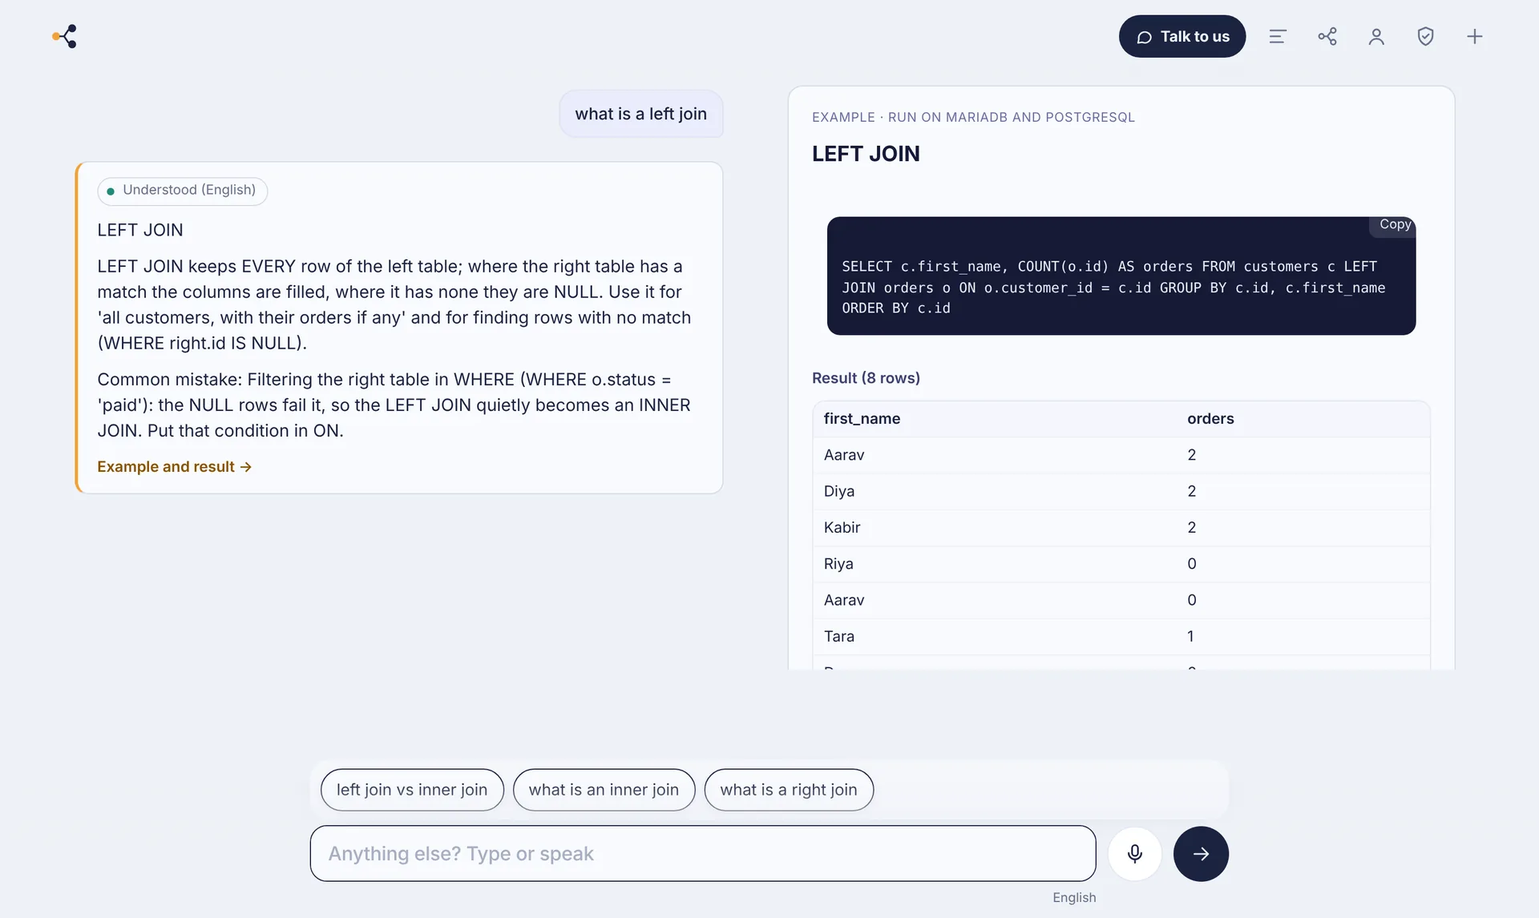
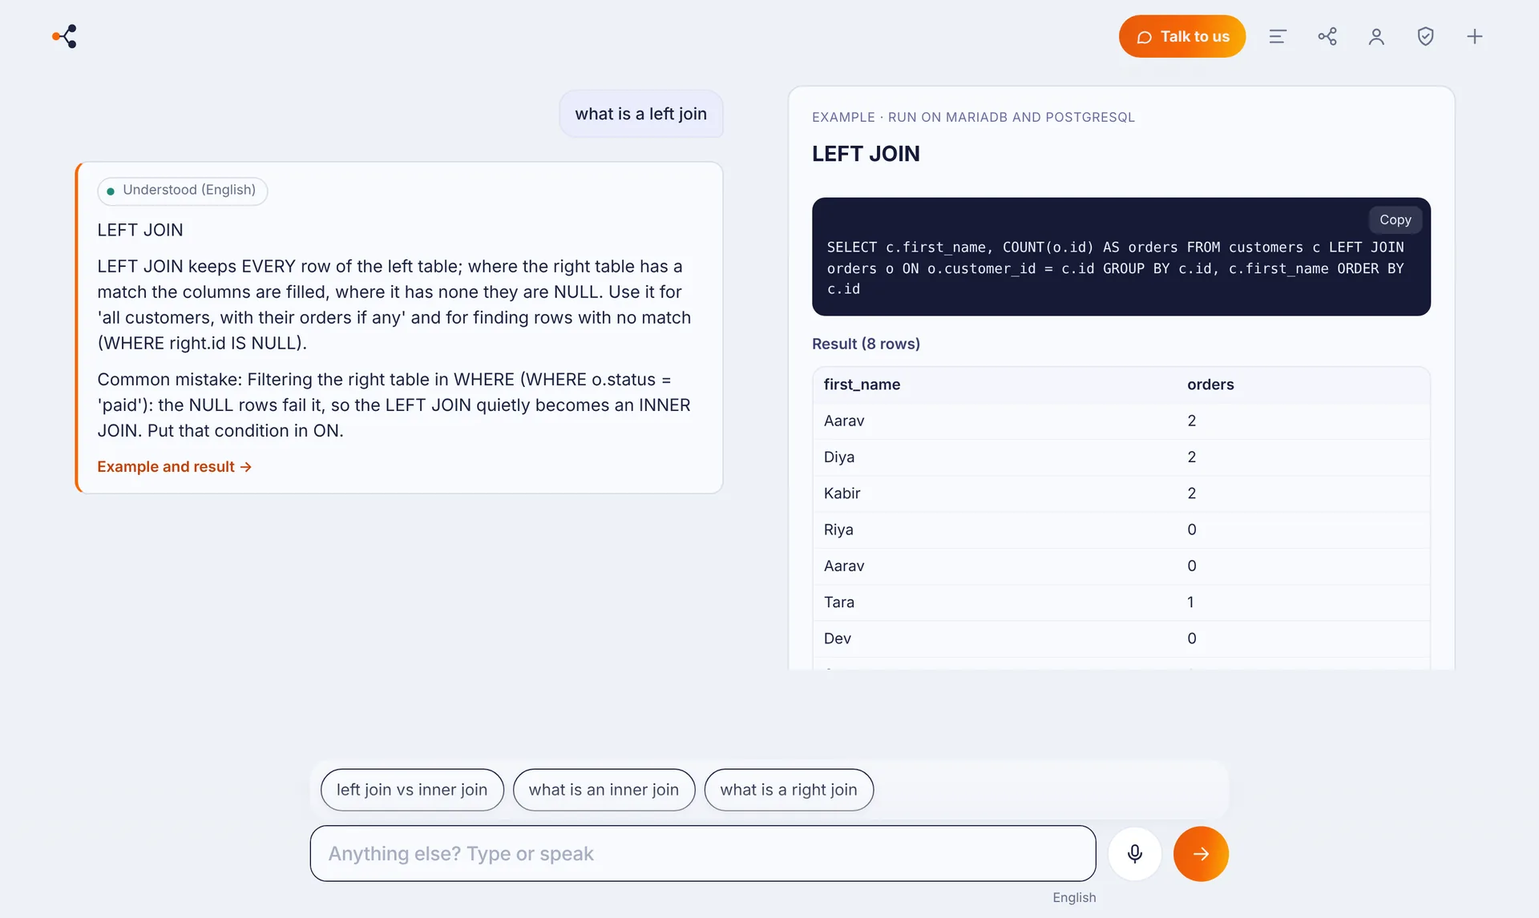
Site: one header on every page, and the brand colour is an orange-to-yellow gradient
Asked for: the header was a different size on some pages; the colour should be orange with a little yellow.
- Home, Product, How it works, Self-hosted, Privacy and Contact now share one header: full width, 64px, the
  wordmark at the same place, the same links and the same "Talk to us" button (the home page also keeps its
  account and history icons).
- Brand: linear-gradient(100deg, #E8590C, #F76707 55%, #FAB005) for main buttons (Try it free, Talk to us,
  send, solid buttons in the chat, the contact form's send) and the home headline; links and labels in the darker
  orange #C2410C so they stay readable on white.
- Screenshots retaken so they show the new colours.

Claude-Session: https://claude.ai/code/session_01W71o1cNQ31ezAyqHgKC5X8

diff --git a/app/static/app.css b/app/static/app.css
@@ -4,9 +4,11 @@
   --ink: #1B2340;
   --muted: #66708A;
   --line: #D5DBE7;
-  --signal: #F2A33A;
-  --signal-ink: #8A5300;
-  --signal-soft: #FCEBD2;
+  --signal: #F76707;
+  --signal-ink: #C2410C;
+  --signal-soft: #FFF1E3;
+  --grad: linear-gradient(100deg, #E8590C 0%, #F76707 55%, #FAB005 100%);   /* the brand: orange first, a little yellow */
+  --grad-hover: linear-gradient(100deg, #D9480F 0%, #E8590C 55%, #F59F00 100%);
   --ok: #1F8A7E;
   --ok-soft: #DDF1EE;
   --alert: #C8463B;
@@ -79,7 +81,8 @@ body[data-state="active"] .ghost::after { display: none; }
 .mic { border: 1px solid var(--line); background: var(--panel); color: var(--ink); }
 .mic.listening { border-color: var(--signal); background: var(--signal-soft); animation: listen 1.4s ease-in-out infinite; }
 @keyframes listen { 50% { box-shadow: 0 0 0 8px rgba(242, 163, 58, .18); } }
-.send { border: 0; background: var(--ink); color: var(--paper); }
+.send { border: 0; background: var(--grad); color: #fff; }
+.send:hover { background: var(--grad-hover); }
 .send:disabled { opacity: .45; cursor: wait; }
 body[data-state="idle"] .mic, body[data-state="idle"] .send { width: 56px; height: 56px; }
 
@@ -165,7 +168,8 @@ body[data-state="active"]::after { content: ""; position: fixed; left: 0; right:
 .slot .msg-template { white-space: pre-wrap; background: var(--panel); border: 1px solid var(--line); border-radius: 12px; padding: 12px; margin: 8px 0 0; font-size: 14px; }
 .acts { display: flex; flex-wrap: wrap; gap: 8px; margin: 16px 0 0 46px; }
 .btn { border: 1px solid var(--ink); background: transparent; color: var(--ink); border-radius: 999px; padding: 10px 18px; font-weight: 600; cursor: pointer; }
-.btn.solid { background: var(--ink); color: var(--paper); }
+.btn.solid { background: var(--grad); color: #fff; border-color: transparent; }
+.btn.solid:hover { background: var(--grad-hover); }
 .btn.go { background: var(--ok); border-color: var(--ok); color: #fff; }
 .btn:disabled { opacity: .45; cursor: not-allowed; }
 .note { margin: 10px 0 0 46px; font-size: 13px; color: var(--muted); }
@@ -571,7 +575,7 @@ body[data-state="idle"] .composer { padding: 8px 8px 8px 18px; gap: 10px; border
   background: var(--panel); box-shadow: none; }
 body[data-state="idle"] .composer:focus-within { border-color: var(--signal-ink); }
 body[data-state="idle"] .mic { background: var(--panel); border-color: var(--line); }
-body[data-state="idle"] .send { background: var(--ink); color: var(--paper); border-radius: 10px; box-shadow: none; }
+body[data-state="idle"] .send { background: var(--grad); color: #fff; border-radius: 10px; box-shadow: none; }
 body[data-state="idle"] #input, body[data-state="idle"] .ghost { font-size: clamp(16px, 1.3vw, 18px); }
 body[data-state="idle"] .ghost { color: #8C93A8; }
 
@@ -631,7 +635,7 @@ body[data-state="active"]::after { background: linear-gradient(rgba(244, 245, 25
 .trace li::before { transform: none; }
 body[data-state="active"] #input { background: #fff; border-color: #E2E5F3; box-shadow: 0 16px 36px -26px rgba(64, 72, 160, .5); }
 body[data-state="active"] #input:focus { border-color: #8E83F0; }
-body[data-state="active"] .send { background: linear-gradient(135deg, #5B5BF0, #7B4FE0); color: #fff; box-shadow: 0 10px 22px -10px rgba(91, 79, 230, .8); }
+body[data-state="active"] .send { background: var(--grad); color: #fff; box-shadow: 0 10px 22px -10px rgba(232, 89, 12, .7); }
 body[data-state="active"] .mic { background: #fff; border-color: #E2E5F3; }
 .machine .agent { background: rgba(255, 255, 255, .85); border: 1px solid #E4E7F5; border-radius: 20px; padding: 20px 22px;
   box-shadow: 0 22px 46px -34px rgba(64, 72, 160, .55); }
@@ -718,17 +722,17 @@ body[data-state="active"] .bar { background: linear-gradient(to bottom, var(--pa
 .found.folded details .f, .found.folded details .e { margin-top: 4px; }
 
 /* ---------------------------------------------------------------- talk to us (enquiry form, /enquiry) */
-.talk { display: inline-flex; align-items: center; gap: 7px; height: 40px; padding: 0 15px; border-radius: 999px; background: var(--ink);
+.talk { display: inline-flex; align-items: center; gap: 7px; height: 40px; padding: 0 15px; border-radius: 999px; background: var(--grad);
   color: var(--paper); font-weight: 700; font-size: 14px; text-decoration: none; margin-right: 4px; white-space: nowrap; }
 .talk svg { width: 17px; height: 17px; fill: none; stroke: currentColor; stroke-width: 2; stroke-linejoin: round; }
-.talk:hover { background: #2A3560; }
+.talk:hover { background: var(--grad-hover); }
 .talk:focus-visible { outline: 2px solid var(--signal); outline-offset: 2px; }
 .talk-cta { width: min(1140px, 100%); margin-top: 20px; padding: 22px clamp(18px, 3vw, 32px); border-radius: 22px; display: flex;
   align-items: center; justify-content: space-between; gap: 18px; background: #141A38; color: #fff; text-align: left; box-sizing: border-box; }
 .talk-cta h2 { margin: 0 0 4px; font-size: clamp(19px, 2vw, 24px); letter-spacing: -0.01em; }
 .talk-cta p { margin: 0; color: #C5CBE3; max-width: 62ch; line-height: 1.5; }
-.talk-btn { flex: none; background: var(--signal); color: #1B2340; font-weight: 800; text-decoration: none; border-radius: 999px; padding: 13px 24px; }
-.talk-btn:hover { background: #F7B65C; }
+.talk-btn { flex: none; background: var(--grad); color: #fff; font-weight: 800; text-decoration: none; border-radius: 999px; padding: 13px 24px; }
+.talk-btn:hover { background: var(--grad-hover); }
 .talk-btn:focus-visible { outline: 2px solid #fff; outline-offset: 3px; }
 body.typing .talk-cta { visibility: hidden; }
 @media (max-width: 640px) {
@@ -773,7 +777,8 @@ body[data-state="active"] .options { padding: 8px 10px; border-radius: 18px; bac
 /* ---------------------------------------------------------------- plain colours in the conversation too (no purple glow) */
 body[data-state="active"] { background: var(--paper); }
 body[data-state="active"]::after { background: linear-gradient(to top, var(--paper) 55%, rgba(238, 241, 246, 0)); }
-body[data-state="active"] .send, body[data-state="active"] .btn.solid { background: var(--ink); color: var(--paper); border-color: var(--ink); box-shadow: none; }
+body[data-state="active"] .send, body[data-state="active"] .btn.solid { background: var(--grad); color: #fff; border-color: transparent; box-shadow: none; }
+body[data-state="active"] .send:hover, body[data-state="active"] .btn.solid:hover { background: var(--grad-hover); }
 body[data-state="active"] #input { background: var(--panel); border-color: var(--line); box-shadow: none; }
 body[data-state="active"] #input:focus { border-color: var(--ink); }
 .turn-machine { background: var(--panel); border-color: var(--line); border-left-color: var(--signal); box-shadow: none; border-radius: 12px; }

diff --git a/app/static/site.css b/app/static/site.css
@@ -8,9 +8,11 @@
   --s-ink-2: #334155;
   --s-mute: #64748B;
   --s-line: #E5E7EF;
-  --s-acc: #4353FF;
-  --s-acc-2: #3442E0;
-  --s-acc-soft: #EEF0FF;
+  --s-acc: #E8590C;         /* brand orange */
+  --s-acc-2: #C2410C;       /* darker orange: links and text on white */
+  --s-acc-soft: #FFF1E3;
+  --s-grad: linear-gradient(100deg, #E8590C 0%, #F76707 55%, #FAB005 100%);   /* orange first, a little yellow at the end */
+  --s-grad-hover: linear-gradient(100deg, #D9480F 0%, #E8590C 55%, #F59F00 100%);
   --s-ok: #0F9D7A;
   --s-warn: #C77A00;
   --s-bad: #D2453B;
@@ -18,6 +20,7 @@
   --s-mono: ui-monospace, "SFMono-Regular", Menlo, Consolas, monospace;
   --s-wrap: 1120px;
   --s-gut: clamp(16px, 4vw, 32px);
+  --s-head-gut: clamp(16px, 4vw, 40px);
 }
 
 .site { margin: 0; background: var(--s-bg); color: var(--s-ink); font-family: var(--s-font); font-size: 16px; line-height: 1.6;
@@ -30,7 +33,7 @@
 /* ---------------------------------------------------------------- header (sub pages) */
 .site .snav { position: sticky; top: 0; z-index: 30; background: rgba(255, 255, 255, .86); backdrop-filter: saturate(1.4) blur(10px);
   border-bottom: 1px solid var(--s-line); }
-.site .snav .wrap { display: flex; align-items: center; gap: 32px; height: 64px; }
+.site .snav .wrap { display: flex; align-items: center; gap: 40px; height: 64px; width: 100%; max-width: none; padding: 0 var(--s-head-gut); }
 .site .brand { display: inline-flex; align-items: center; gap: 9px; text-decoration: none; font-weight: 700; font-size: 16.5px; letter-spacing: -0.01em; color: var(--s-ink); }
 .site .brand svg { width: 26px; height: 26px; fill: none; stroke: var(--s-ink); stroke-width: 1.7; }
 .site .brand circle { fill: var(--s-ink); stroke: none; }
@@ -43,8 +46,8 @@
 /* ---------------------------------------------------------------- buttons */
 .site .btn-s { display: inline-flex; align-items: center; gap: 8px; height: 42px; padding: 0 18px; border-radius: 10px; font-weight: 600; font-size: 15px;
   text-decoration: none; border: 1px solid transparent; cursor: pointer; white-space: nowrap; }
-.site .btn-s.pri { background: var(--s-acc); color: #fff; box-shadow: 0 6px 16px -8px rgba(67, 83, 255, .7); }
-.site .btn-s.pri:hover { background: var(--s-acc-2); }
+.site .btn-s.pri { background: var(--s-grad); color: #fff; box-shadow: 0 8px 18px -10px rgba(232, 89, 12, .75); text-shadow: 0 1px 0 rgba(120, 40, 0, .2); }
+.site .btn-s.pri:hover { background: var(--s-grad-hover); }
 .site .btn-s.sec { background: #fff; color: var(--s-ink); border-color: var(--s-line); }
 .site .btn-s.sec:hover { border-color: #C9CDDA; }
 .site .btn-s.sm { height: 36px; padding: 0 14px; font-size: 14px; border-radius: 9px; }
@@ -53,7 +56,7 @@
 .site .pill { display: inline-flex; align-items: center; gap: 8px; padding: 4px 12px 4px 4px; border-radius: 999px; border: 1px solid var(--s-line);
   background: #fff; font-size: 13px; font-weight: 500; color: var(--s-ink-2); text-decoration: none; }
 .site .pill b { background: var(--s-acc-soft); color: var(--s-acc-2); border-radius: 999px; padding: 2px 9px; font-size: 12px; font-weight: 600; }
-.site .kick { margin: 0 0 10px; font-size: 13px; font-weight: 700; letter-spacing: .08em; text-transform: uppercase; color: var(--s-acc); }
+.site .kick { margin: 0 0 10px; font-size: 13px; font-weight: 700; letter-spacing: .08em; text-transform: uppercase; color: var(--s-acc-2); }
 .site .h1 { margin: 0; font-size: clamp(36px, 5vw, 60px); line-height: 1.06; letter-spacing: -0.035em; font-weight: 800; text-wrap: balance; }
 .site .h2 { margin: 0; font-size: clamp(28px, 3.2vw, 40px); line-height: 1.12; letter-spacing: -0.03em; font-weight: 800; text-wrap: balance; }
 .site .lead { margin: 16px 0 0; font-size: clamp(16.5px, 1.4vw, 19px); color: var(--s-mute); max-width: 62ch; text-wrap: pretty; }
@@ -77,7 +80,7 @@
 .site .card .ic.red { background: #FDECEB; color: var(--s-bad); }
 .site .card h3 { margin: 18px 0 0; font-size: 18px; letter-spacing: -0.01em; }
 .site .card p { margin: 8px 0 0; font-size: 15px; color: var(--s-mute); }
-.site .card a.more { display: inline-block; margin-top: 14px; font-size: 14.5px; font-weight: 600; color: var(--s-acc); text-decoration: none; }
+.site .card a.more { display: inline-block; margin-top: 14px; font-size: 14.5px; font-weight: 600; color: var(--s-acc-2); text-decoration: none; }
 .site .card a.more:hover { text-decoration: underline; }
 
 .site .steps { display: grid; grid-template-columns: 1fr 1.25fr; gap: 56px; align-items: center; margin-top: 48px; }
@@ -127,7 +130,7 @@
 .site .ex .note { font-size: 14px; color: var(--s-mute); margin: 0; }
 
 .site .cta-band { margin: 0; padding: 88px 0; text-align: center; background:
-  radial-gradient(60% 120% at 50% 0%, rgba(67, 83, 255, .10), transparent 70%), var(--s-soft); border-top: 1px solid var(--s-line); }
+  radial-gradient(60% 120% at 50% 0%, rgba(247, 103, 7, .10), transparent 70%), var(--s-soft); border-top: 1px solid var(--s-line); }
 .site .cta-band .row { margin-top: 28px; display: flex; gap: 12px; justify-content: center; flex-wrap: wrap; }
 
 /* ---------------------------------------------------------------- footer */
@@ -162,3 +165,18 @@
 .site .cta-band .lead { margin-left: auto; margin-right: auto; }
 .site .center .card { text-align: left; }
 .site .band.soft .steps li.on { background: #fff; border: 1px solid var(--s-line); }
+
+/* ---------------------------------------------------------------- one header on every page (the home page's top bar matches it) */
+.site-head { background: transparent; }
+.site .brand { font-size: 16.5px; }
+.site .brand svg { width: 26px; height: 26px; }
+.site .snav-links a { font-size: 14.5px; }
+.site .talk-s { margin-left: auto; display: inline-flex; align-items: center; gap: 7px; height: 40px; padding: 0 16px; border-radius: 999px;
+  background: var(--s-grad); color: #fff; font-weight: 700; font-size: 14.5px; text-decoration: none; white-space: nowrap;
+  box-shadow: 0 8px 18px -10px rgba(232, 89, 12, .75); }
+.site .talk-s:hover { background: var(--s-grad-hover); }
+.site .talk-s svg { width: 17px; height: 17px; fill: none; stroke: currentColor; stroke-width: 2; stroke-linejoin: round; }
+.site .snav-links { margin-right: 0; }
+.site .grad-text { background: var(--s-grad); -webkit-background-clip: text; background-clip: text; color: transparent; }
+@media (max-width: 720px) { .site .talk-s span { display: none; } .site .talk-s { width: 40px; padding: 0; justify-content: center; } }
+.site-head .snav { background: rgba(255, 255, 255, .96); }

diff --git a/app/static/home.css b/app/static/home.css
@@ -13,14 +13,15 @@ body[data-state="idle"] .bar { position: sticky; top: 0; background: rgba(255, 2
 body[data-state="idle"] .mark { width: auto; display: inline-flex; gap: 9px; text-decoration: none; }
 body[data-state="idle"] .mark svg { width: 26px; height: 26px; }
 body[data-state="idle"] .mark::after { content: "Goal Engine"; font-weight: 700; font-size: 16.5px; letter-spacing: -0.01em; color: var(--s-ink); white-space: nowrap; }
+body[data-state="idle"] .bar { padding-left: clamp(16px, 4vw, 40px); padding-right: clamp(16px, 4vw, 40px); min-height: 64px; }
 body[data-state="idle"] .site-links { display: flex; gap: 26px; margin-left: 40px; margin-right: auto; }
 .site-links a { text-decoration: none; font-size: 14.5px; font-weight: 500; color: var(--s-ink-2); }
 .site-links a:hover { color: var(--s-ink); }
-body[data-state="idle"] .talk { background: var(--s-acc); }
-body[data-state="idle"] .talk:hover { background: var(--s-acc-2); }
+body[data-state="idle"] .talk { background: var(--s-grad); box-shadow: 0 8px 18px -10px rgba(232, 89, 12, .75); font-weight: 700; }
+body[data-state="idle"] .talk:hover { background: var(--s-grad-hover); }
 
 /* ---------------------------------------------------------------- hero */
-.h-hero { padding: 72px 0 24px; background: radial-gradient(50% 60% at 50% 0%, rgba(67, 83, 255, .07), transparent 70%); }
+.h-hero { padding: 72px 0 24px; background: radial-gradient(50% 60% at 50% 0%, rgba(247, 103, 7, .08), transparent 70%); }
 .h-hero .hero { max-width: 860px; margin: 0 auto; }
 .h-hero .pill { margin-bottom: 26px; }
 .h-hero .h1 { color: var(--s-ink); font-size: clamp(36px, 5vw, 62px); }
@@ -30,12 +31,12 @@ body[data-state="idle"] .talk:hover { background: var(--s-acc-2); }
 .home .composer-slot { width: min(700px, 100%); margin: 32px auto 0; }
 body[data-state="idle"] .composer { background: #fff; border: 1px solid #D6DAE6; border-radius: 14px; padding: 7px 7px 7px 18px;
   box-shadow: 0 1px 2px rgba(15, 23, 42, .04), 0 18px 40px -24px rgba(15, 23, 42, .3); }
-body[data-state="idle"] .composer:focus-within { border-color: var(--s-acc); box-shadow: 0 0 0 4px rgba(67, 83, 255, .12); }
+body[data-state="idle"] .composer:focus-within { border-color: var(--s-acc); box-shadow: 0 0 0 4px rgba(247, 103, 7, .14); }
 body[data-state="idle"] #input, body[data-state="idle"] .ghost { font-size: 16.5px; color: var(--s-ink); }
 body[data-state="idle"] .ghost { color: #8B93A7; }
 body[data-state="idle"] .mic { background: #fff; border-color: var(--s-line); width: 46px; height: 46px; }
-body[data-state="idle"] .send { background: var(--s-acc); color: #fff; width: 46px; height: 46px; border-radius: 10px; }
-body[data-state="idle"] .send:hover { background: var(--s-acc-2); }
+body[data-state="idle"] .send { background: var(--s-grad); color: #fff; width: 46px; height: 46px; border-radius: 10px; box-shadow: 0 8px 18px -10px rgba(232, 89, 12, .75); }
+body[data-state="idle"] .send:hover { background: var(--s-grad-hover); }
 
 .home .brains { justify-content: center; margin-top: 18px; gap: 10px; }
 body[data-state="idle"] .brain-tile { background: #fff; border: 1px solid var(--s-line); border-radius: 10px; padding: 8px 14px 8px 11px; }

diff --git a/app/static/enquiry.html b/app/static/enquiry.html
@@ -9,16 +9,15 @@
   <link rel="preconnect" href="https://fonts.gstatic.com" crossorigin>
   <link href="https://fonts.googleapis.com/css2?family=Schibsted+Grotesk:wght@400;500;600;700&display=swap" rel="stylesheet">
   <link rel="stylesheet" href="/static/enquiry.css">
+  <link rel="stylesheet" href="/static/site.css">
   <script src="/static/enquiry.js" defer></script>
 </head>
 <body>
-  <header class="bar">
-    <a class="mark" href="/" aria-label="Goal Engine home">
-      <svg viewBox="0 0 32 32" aria-hidden="true"><circle cx="8" cy="16" r="4"/><circle cx="24" cy="8" r="4"/><circle cx="24" cy="24" r="4"/><path d="M12 16h4l4-6M16 16l4 6"/></svg>
-      <span>Goal Engine</span>
-    </a>
-    <a class="back" href="/">Back to Goal Engine</a>
-  </header>
+  <div class="site site-head"><header class="snav"><div class="wrap">
+    <a class="brand" href="/"><svg viewBox="0 0 32 32" aria-hidden="true"><circle cx="8" cy="16" r="4"/><circle cx="24" cy="8" r="4"/><circle cx="24" cy="24" r="4"/><path d="M12 16h4l4-6M16 16l4 6"/></svg>Goal Engine</a>
+    <nav class="snav-links" aria-label="Site"><a href="/product">Product</a><a href="/how-it-works">How it works</a><a href="/self-hosted">Self-hosted</a><a href="/enquiry?from=nav" aria-current="page">Contact</a></nav>
+    <a class="talk-s" href="/enquiry?from=nav"><svg viewBox="0 0 24 24" aria-hidden="true"><path d="M21 12a8 8 0 0 1-11.6 7.1L4 20l1-4.6A8 8 0 1 1 21 12z"/></svg><span>Talk to us</span></a>
+  </div></header></div>
 
   <main>
     <section class="intro">

diff --git a/app/static/privacy.html b/app/static/privacy.html
@@ -32,10 +32,15 @@
     @media (max-width: 560px) { .rules li { grid-template-columns: 1fr; gap: 2px; } }
   .acct-warn { color: #8A5300; background: #FCEBD2; padding: 10px 12px; border-radius: 10px; }
 </style>
+  <link rel="stylesheet" href="/static/site.css">
 </head>
 <body>
+  <div class="site site-head"><header class="snav"><div class="wrap">
+    <a class="brand" href="/"><svg viewBox="0 0 32 32" aria-hidden="true"><circle cx="8" cy="16" r="4"/><circle cx="24" cy="8" r="4"/><circle cx="24" cy="24" r="4"/><path d="M12 16h4l4-6M16 16l4 6"/></svg>Goal Engine</a>
+    <nav class="snav-links" aria-label="Site"><a href="/product">Product</a><a href="/how-it-works">How it works</a><a href="/self-hosted">Self-hosted</a><a href="/enquiry?from=nav">Contact</a></nav>
+    <a class="talk-s" href="/enquiry?from=privacy"><svg viewBox="0 0 24 24" aria-hidden="true"><path d="M21 12a8 8 0 0 1-11.6 7.1L4 20l1-4.6A8 8 0 1 1 21 12z"/></svg><span>Talk to us</span></a>
+  </div></header></div>
 <main>
-  <a class="back" href="/">← Goal Engine</a>
   <h1>Your data stays yours.</h1>
   <p class="lead">These rules are built into the code and checked by automatic tests every time it changes. They aren't a policy we might forget.</p>
 

diff --git a/app/static/enquiry.css b/app/static/enquiry.css
@@ -1,6 +1,6 @@
 :root {
   --paper: #EEF1F6; --panel: #F8FAFD; --ink: #1B2340; --muted: #66708A; --line: #D5DBE7;
-  --signal: #F2A33A; --signal-soft: #FCEBD2; --ok: #1F8A7E; --ok-soft: #DDF1EE; --alert: #C8463B;
+  --signal: #E8590C; --signal-soft: #FCEBD2; --ok: #1F8A7E; --ok-soft: #DDF1EE; --alert: #C8463B;
   --field: #fff;
 }
 @media (prefers-color-scheme: dark) {
@@ -49,7 +49,7 @@ legend { font-weight: 600; font-size: 14px; margin-bottom: 8px; padding: 0; }
 .consent input { width: 18px; height: 18px; margin-top: 3px; flex: none; }
 .err { color: var(--alert); margin: 0; font-weight: 600; }
 .actions { display: flex; align-items: center; justify-content: space-between; gap: 12px; }
-.send { display: inline-block; background: var(--ink); color: var(--paper); border: 0; border-radius: 999px; padding: 12px 22px;
+.send { display: inline-block; background: linear-gradient(100deg, #E8590C 0%, #F76707 55%, #FAB005 100%); color: #fff; border: 0; border-radius: 999px; padding: 12px 22px;
   font: inherit; font-weight: 700; cursor: pointer; text-decoration: none; }
 .send[disabled] { opacity: .6; cursor: progress; }
 .privacy { color: var(--muted); font-size: 14px; }

diff --git a/app/static/how-it-works.html b/app/static/how-it-works.html
@@ -12,11 +12,11 @@
   <link rel="stylesheet" href="/static/site.css">
 </head>
 <body class="site">
-  <header class="snav"><div class="wrap">
+  <div class="site site-head"><header class="snav"><div class="wrap">
     <a class="brand" href="/"><svg viewBox="0 0 32 32" aria-hidden="true"><circle cx="8" cy="16" r="4"/><circle cx="24" cy="8" r="4"/><circle cx="24" cy="24" r="4"/><path d="M12 16h4l4-6M16 16l4 6"/></svg>Goal Engine</a>
     <nav class="snav-links" aria-label="Site"><a href="/product">Product</a><a href="/how-it-works" aria-current="page">How it works</a><a href="/self-hosted">Self-hosted</a><a href="/enquiry?from=nav">Contact</a></nav>
-    <a class="btn-s pri sm" href="/">Try it free</a>
-  </div></header>
+    <a class="talk-s" href="/enquiry?from=how-it-works"><svg viewBox="0 0 24 24" aria-hidden="true"><path d="M21 12a8 8 0 0 1-11.6 7.1L4 20l1-4.6A8 8 0 1 1 21 12z"/></svg><span>Talk to us</span></a>
+  </div></header></div>
   <main>
     <section class="page-hero center"><div class="wrap">
       <p class="kick">How it works</p>

diff --git a/app/static/self-hosted.html b/app/static/self-hosted.html
@@ -12,11 +12,11 @@
   <link rel="stylesheet" href="/static/site.css">
 </head>
 <body class="site">
-  <header class="snav"><div class="wrap">
+  <div class="site site-head"><header class="snav"><div class="wrap">
     <a class="brand" href="/"><svg viewBox="0 0 32 32" aria-hidden="true"><circle cx="8" cy="16" r="4"/><circle cx="24" cy="8" r="4"/><circle cx="24" cy="24" r="4"/><path d="M12 16h4l4-6M16 16l4 6"/></svg>Goal Engine</a>
     <nav class="snav-links" aria-label="Site"><a href="/product">Product</a><a href="/how-it-works">How it works</a><a href="/self-hosted" aria-current="page">Self-hosted</a><a href="/enquiry?from=nav">Contact</a></nav>
-    <a class="btn-s pri sm" href="/">Try it free</a>
-  </div></header>
+    <a class="talk-s" href="/enquiry?from=self-hosted"><svg viewBox="0 0 24 24" aria-hidden="true"><path d="M21 12a8 8 0 0 1-11.6 7.1L4 20l1-4.6A8 8 0 1 1 21 12z"/></svg><span>Talk to us</span></a>
+  </div></header></div>
   <main>
     <section class="page-hero center"><div class="wrap">
       <p class="kick">Self-hosted</p>

diff --git a/app/static/product.html b/app/static/product.html
@@ -12,11 +12,11 @@
   <link rel="stylesheet" href="/static/site.css">
 </head>
 <body class="site">
-  <header class="snav"><div class="wrap">
+  <div class="site site-head"><header class="snav"><div class="wrap">
     <a class="brand" href="/"><svg viewBox="0 0 32 32" aria-hidden="true"><circle cx="8" cy="16" r="4"/><circle cx="24" cy="8" r="4"/><circle cx="24" cy="24" r="4"/><path d="M12 16h4l4-6M16 16l4 6"/></svg>Goal Engine</a>
     <nav class="snav-links" aria-label="Site"><a href="/product" aria-current="page">Product</a><a href="/how-it-works">How it works</a><a href="/self-hosted">Self-hosted</a><a href="/enquiry?from=nav">Contact</a></nav>
-    <a class="btn-s pri sm" href="/">Try it free</a>
-  </div></header>
+    <a class="talk-s" href="/enquiry?from=product"><svg viewBox="0 0 24 24" aria-hidden="true"><path d="M21 12a8 8 0 0 1-11.6 7.1L4 20l1-4.6A8 8 0 1 1 21 12z"/></svg><span>Talk to us</span></a>
+  </div></header></div>
   <main>
     <section class="page-hero center"><div class="wrap">
       <p class="kick">Product</p>

diff --git a/app/static/index.html b/app/static/index.html
@@ -59,7 +59,7 @@
     <section class="h-hero"><div class="wrap center">
       <div class="hero" id="hero">
         <a class="pill" href="/product#report"><b>New</b>The DBaba database health report →</a>
-        <h1 class="h1">Find the cause of every<br>database problem.</h1>
+        <h1 class="h1">Find the cause of every<br><span class="grad-text">database problem.</span></h1>
         <p class="lead">Paste an error, a slow query or a spreadsheet problem, in English, Hindi or Hinglish. Goal Engine finds the cause, proves it on real database engines and gives a fix you can undo.</p>
       </div>
       <div id="composer-slot" class="composer-slot">
